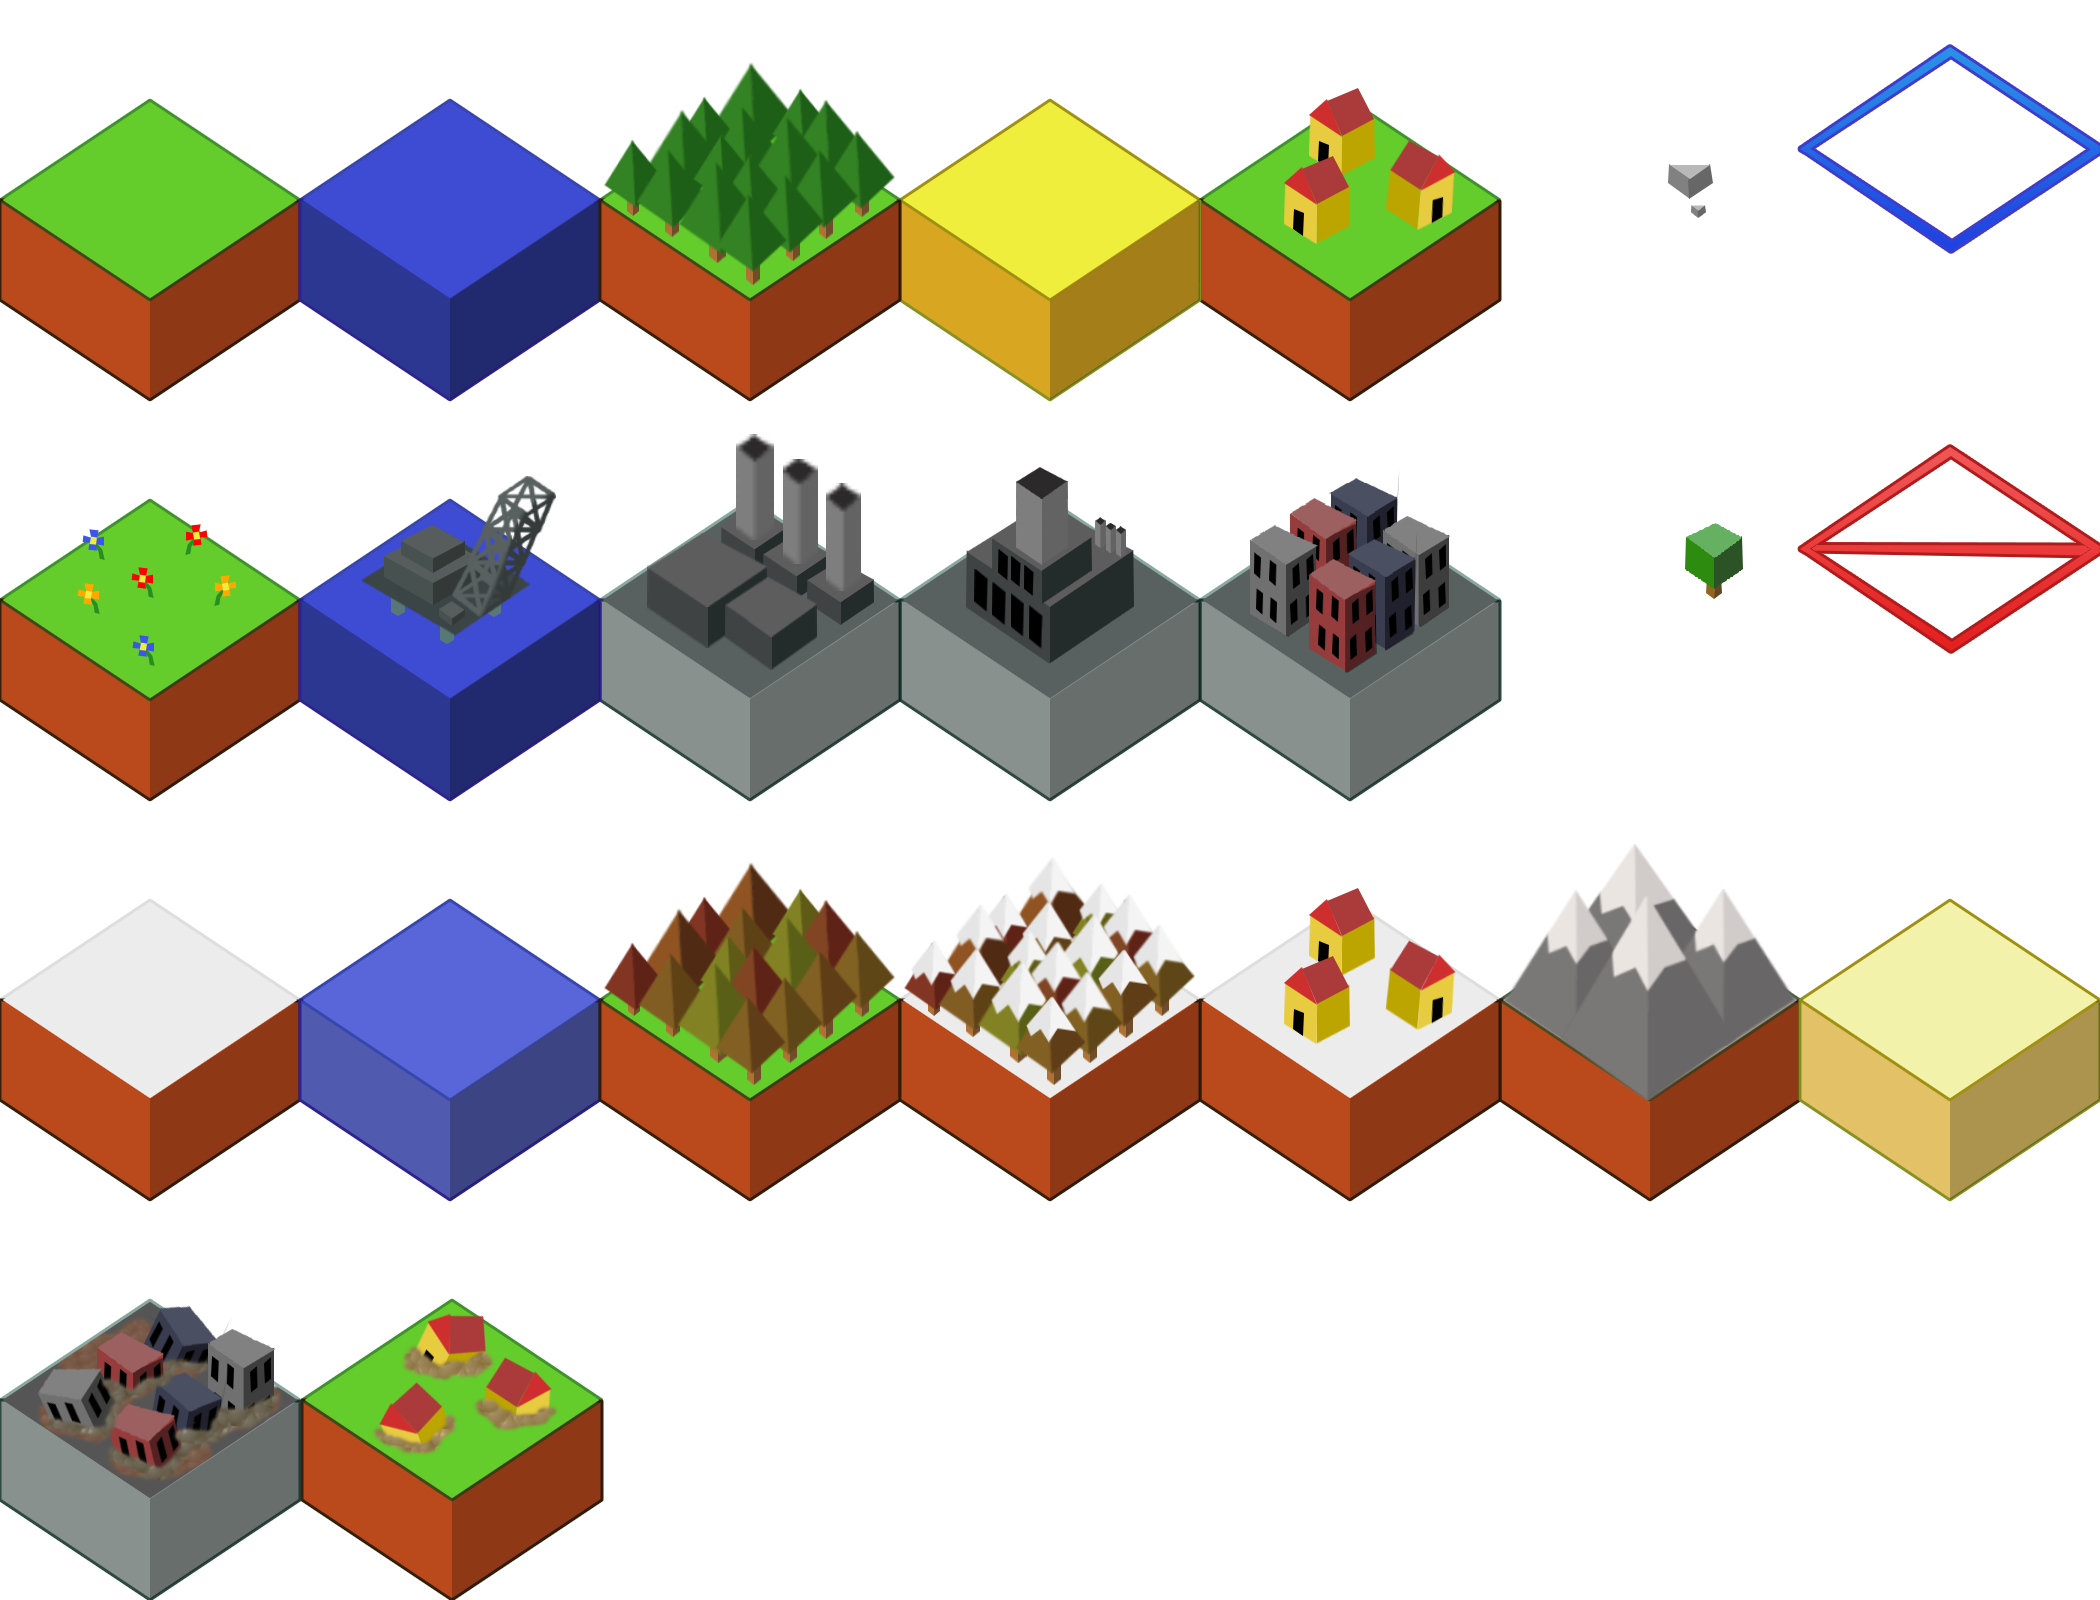
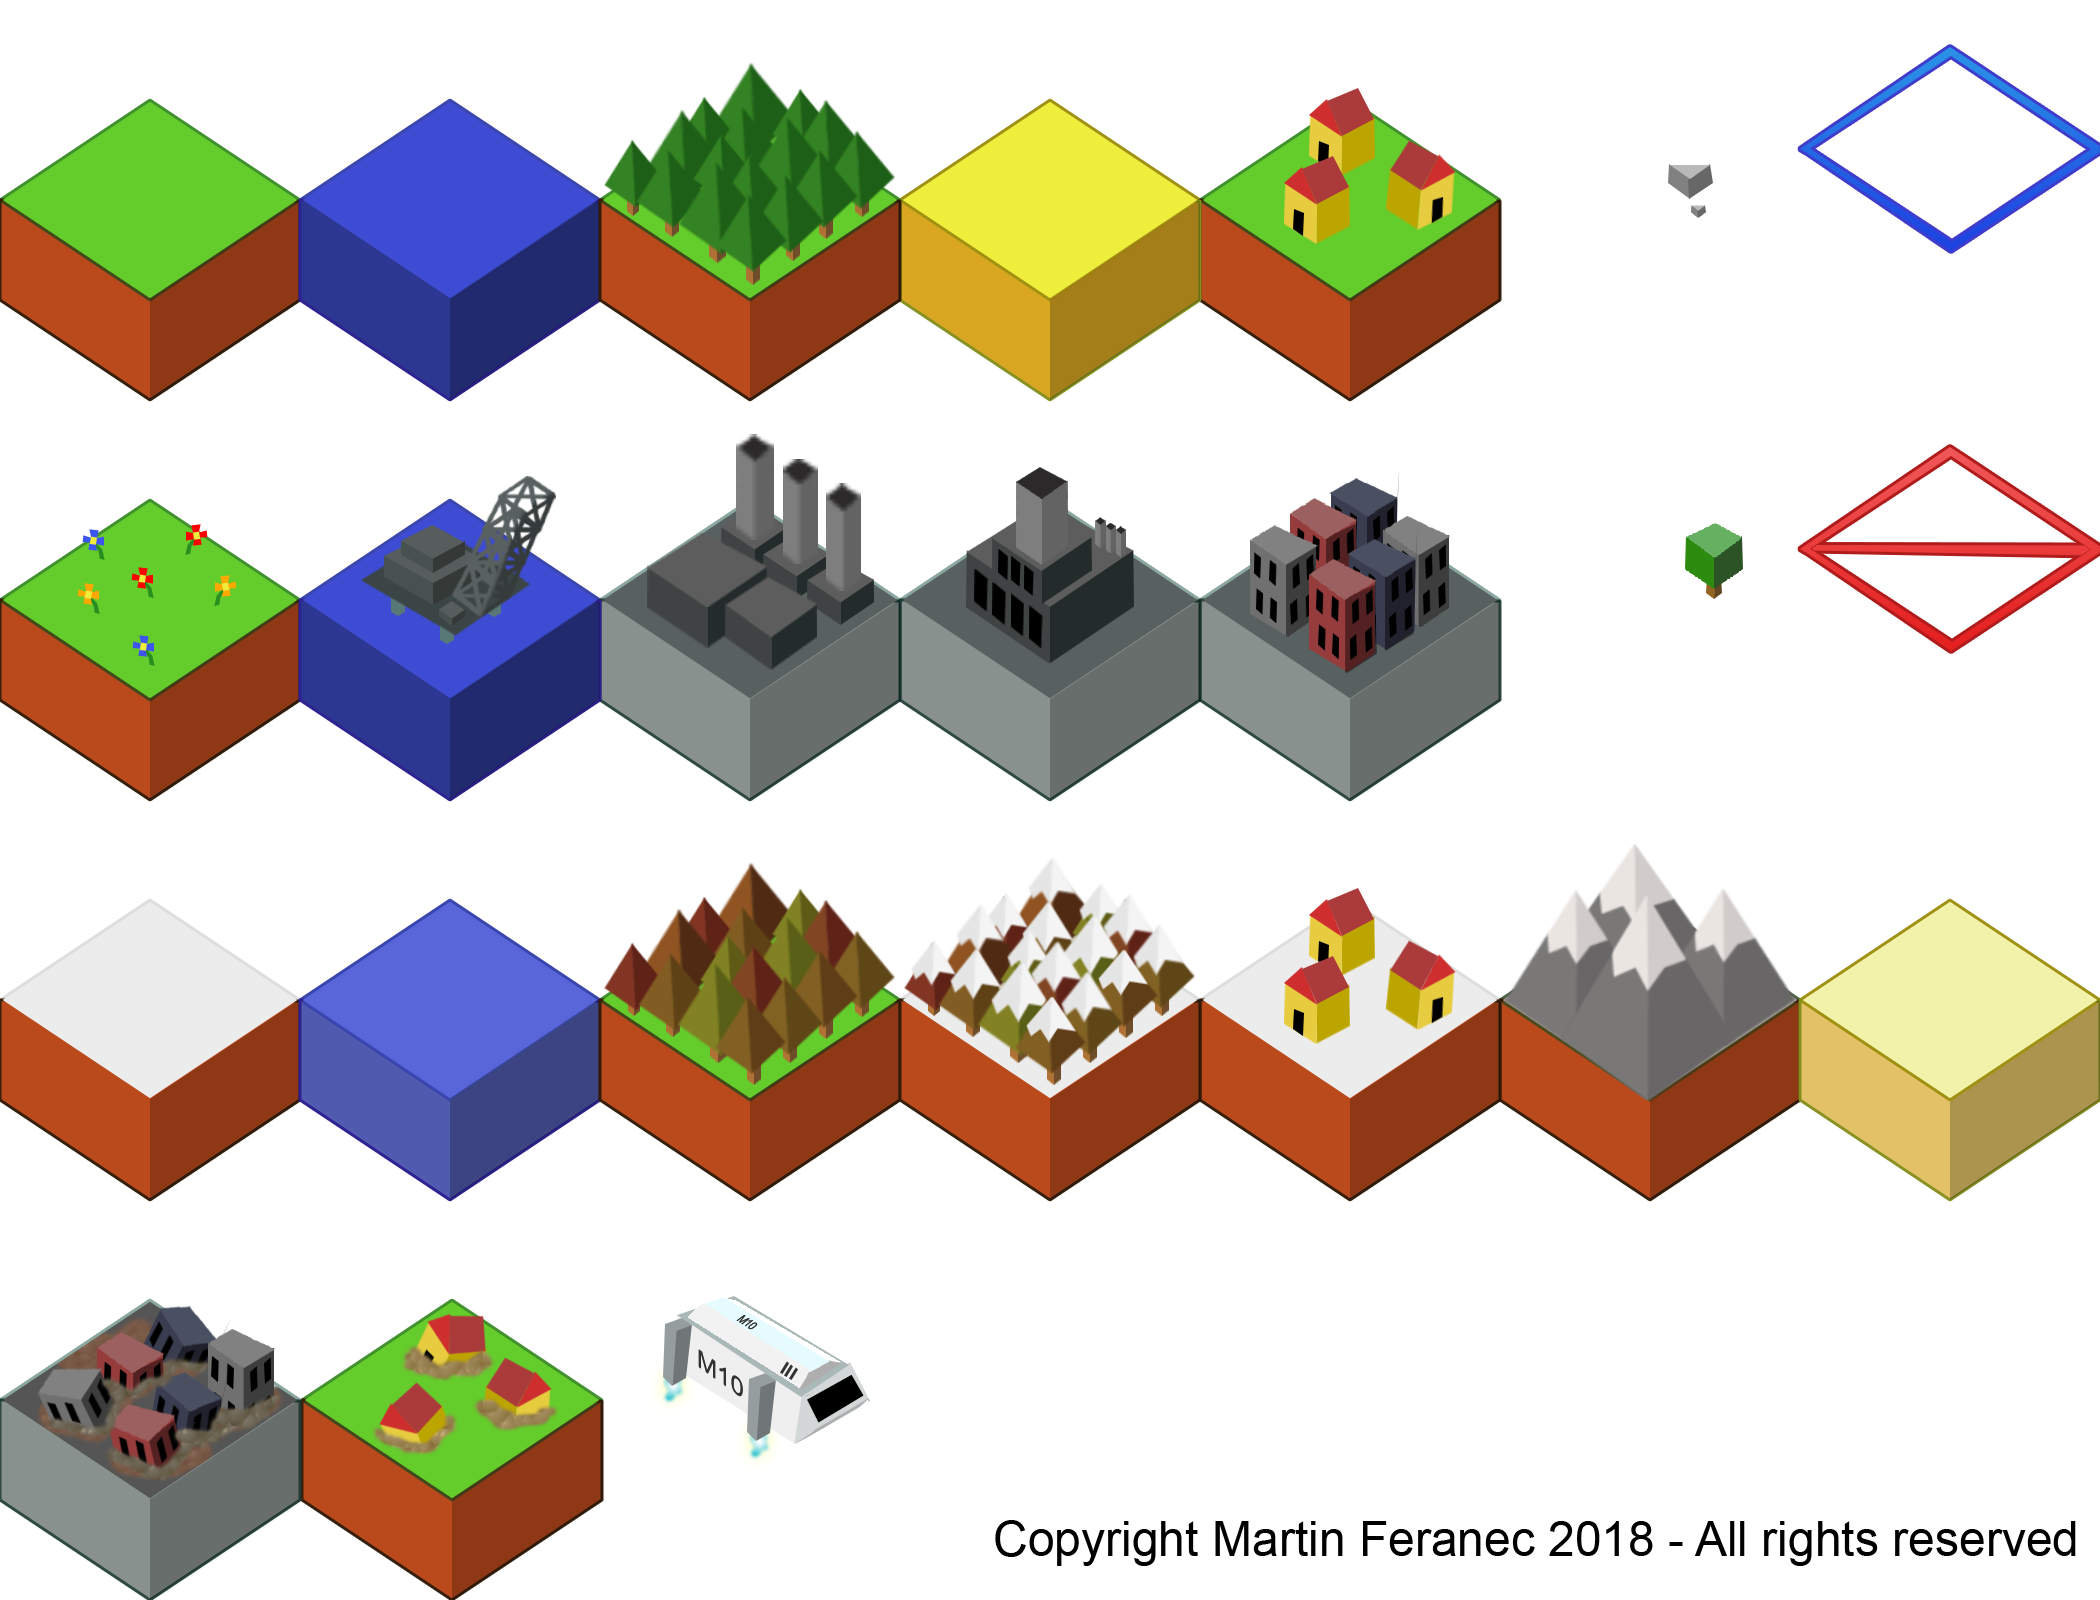
Made rockets I think...

Changed region(s): [[0.4643, 0.9375, 0.9905, 0.9688], [0.3095, 0.8125, 0.4333, 0.9062]]

diff --git a/_games/voxel-biome/tmp.js b/_games/voxel-biome/tmp.js
@@ -688,6 +688,8 @@ function Voxel(x, y, width, height, type){
 
     this.battered = false;
 
+    this.rocketPos = 0;
+
     if(this.id/mapSideLength !== 0) {
         if(this.id/mapSideLength === 1) {
             gridRoll[Math.ceil(this.id / (mapSideLength) + 1)].push(this.id);
@@ -706,9 +708,14 @@ function Voxel(x, y, width, height, type){
 
     this.randomChance = Math.random();
 
+    this.rocketRandom = Math.random();
+
     this.opac1 = 1;
     this.opac2 = 0;
     this.opac3 = 0;
+
+    this.randomDepart = Math.random()*100;
+    this.rocketAccel = WIDTH/600;
 
     this.falling = false;
     this.typeToChangeTo = 0;
@@ -853,10 +860,14 @@ function Voxel(x, y, width, height, type){
 
         }else if(this.type === 6) { //TOWN
 
-            if(this.battered === false){
+            if(this.battered === false || this.rocketRandom >= 0.7 && this.battered === true){
                 ctx.drawImage(voxelsG, 1200, 401, 298, 399, this.x - width / 2, this.y - height / 2, width, height);
             }else{
                 ctx.drawImage(voxelsG, 0, 1200, 298, 400, this.x - width / 2, this.y - height / 2, width, height);
+            }
+
+            if(whichCutscene === 1 && this.rocketRandom >= 0.7 && this.randomDepart <=1){
+                ctx.drawImage(voxelsG, 602, 1200, 298, 400, this.x - width / 2, this.y - height / 2 - this.rocketPos, width, height);
             }
 
         }else if(this.type === 6.1) {
@@ -872,7 +883,7 @@ function Voxel(x, y, width, height, type){
                 }
             }
 
-            if(this.battered === false){
+            if(this.battered === false || this.rocketRandom >= 0.7 && this.battered === true){
                 ctx.drawImage(voxelsG, 1200, 0, 298, 400, this.x - width / 2, this.y - height / 2, width, height);
 
                 ctx.globalAlpha = this.opac1;
@@ -881,6 +892,10 @@ function Voxel(x, y, width, height, type){
                 ctx.globalAlpha = 1;
             }else{
                 ctx.drawImage(voxelsG, 300, 1200, 298, 400, this.x - width / 2, this.y - height / 2, width, height);
+            }
+
+            if(whichCutscene === 1 && this.rocketRandom >= 0.7 && this.randomDepart <=1){
+                ctx.drawImage(voxelsG, 602, 1200, 298, 400, this.x - width / 2, this.y - height / 2 - this.rocketPos, width, height);
             }
 
         }
@@ -1009,6 +1024,17 @@ function Voxel(x, y, width, height, type){
         }
         if(this.internalTimer2 === 0){
             this.battered = true;
+        }
+        if(this.battered === true){
+            if(this.randomDepart <= 1) {
+                this.rocketPos +=  this.rocketAccel;
+            }
+            if(this.rocketAccel > 0){
+                this.rocketAccel -= WIDTH/120000;
+            }
+            if(this.randomDepart > 1){
+                this.randomDepart--;
+            }
         }
     }
 }
@@ -3095,7 +3121,7 @@ function game(){
 
             TUTORIALPAUSED = true;
 
-            if(endGameTimer === 300){
+            if(endGameTimer === 350){
                 gameRunning = false;
                 //0 = Not Played, 1 = Recently Passed, 2 = Lost (Not passed yet), 3 = Recently Lost (But passed at least once),
                 if(levelStates[LEVEL] === 0){
@@ -3137,7 +3163,7 @@ function game(){
 
             TUTORIALPAUSED = true;
 
-            if(endGameTimer === 300){
+            if(endGameTimer === 350){
                 gameRunning = false;
                 //0 = Not Played, 1 = Recently Passed, 2 = Lost (Not passed yet), 3 = Recently Lost (But passed at least once),
                 levelStates[LEVEL] = 1;
@@ -3819,8 +3845,6 @@ function game(){
             if(cutsceneTimer2 > 0){
                 cutsceneTimer2--;
             }
-
-            console.log(cutsceneTimer2);
 
             if((cutsceneTexts[whichCutscene].length === cutScenePage + 1) && (cutsceneTimer2 <= 1) && (cutsceneWrittenText[cutScenePage].length === cutsceneTexts[whichCutscene][cutScenePage].length)){
                 cutSceneSeen = true;
